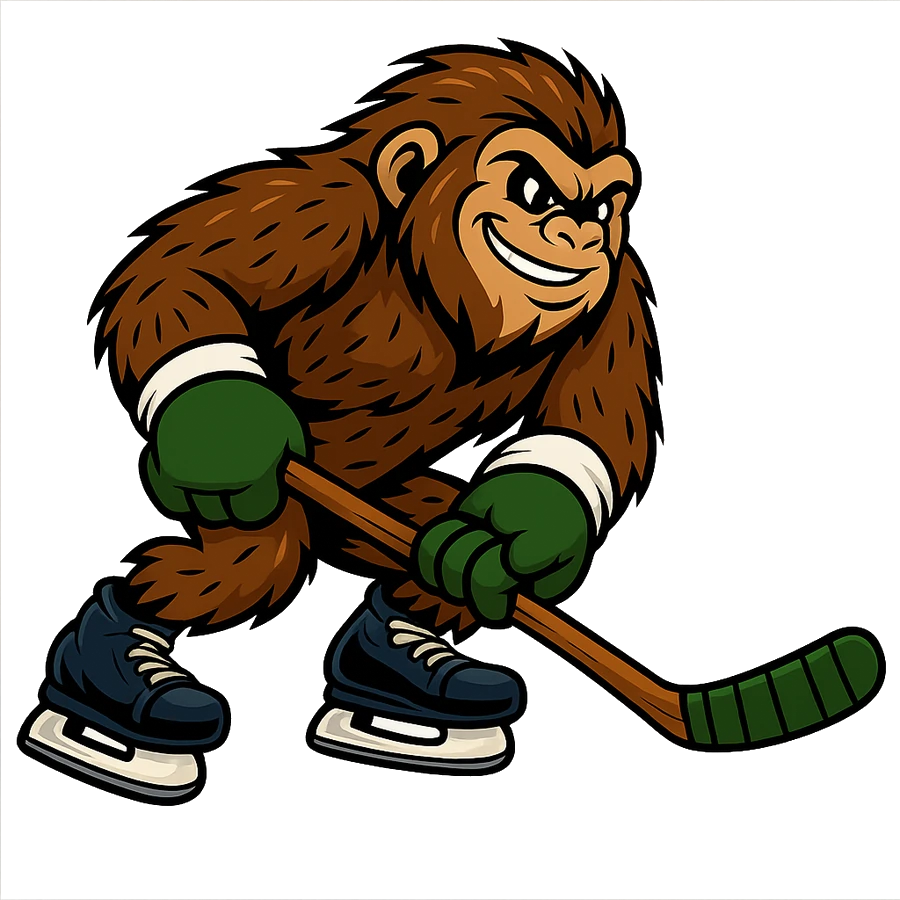
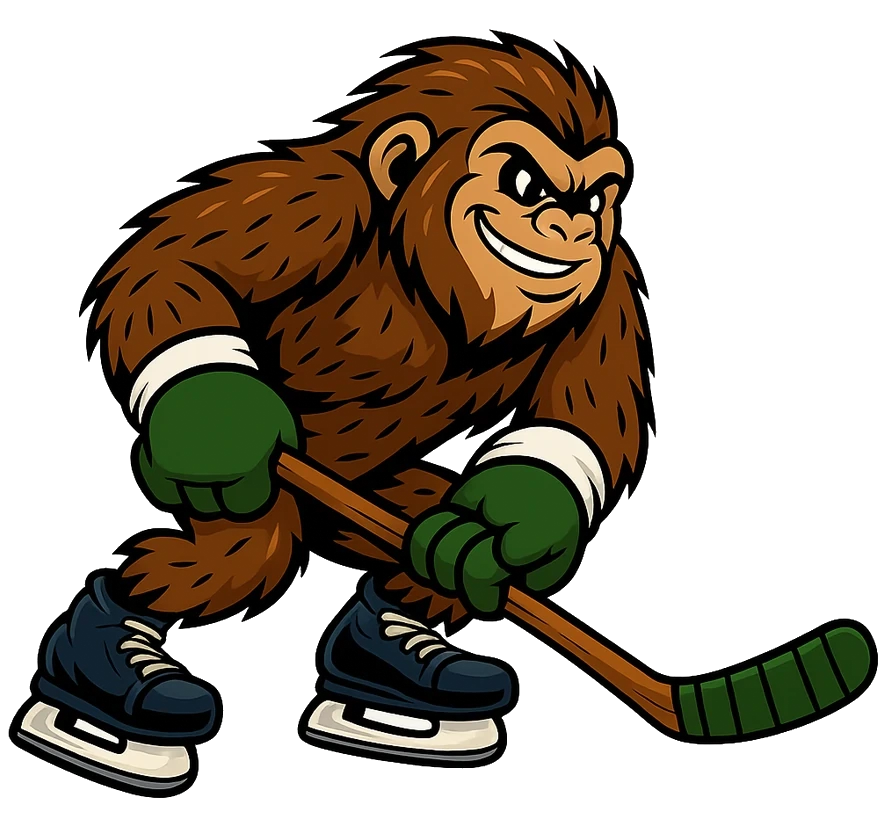
fix(about): strip the baked frame off the mascot, add header clearance to pinned sections
- The hero mascot cutout had a faint 1-3px dark semi-transparent frame on
  three edges (visible as an outline on any background). Cropped it off,
  dropped the faint fringe, and re-padded to a clean transparent margin
  (border alpha now 0). Bumped the cache-bust query to v3.
- The pinned team and coaches sections now pin at top:92px (was 66) with the
  card height adjusted to match, so the heading clears the sticky header
  instead of touching it.

diff --git a/about.html b/about.html
@@ -122,9 +122,9 @@ h2.sec{font-family:'Archivo Black',sans-serif;font-weight:400;font-size:clamp(26
 .pin-step .step-media .scphone{margin:0 auto}
 @media(min-width:900px){
   .pin{position:relative;height:calc(var(--steps,3) * 96vh)}
-  .pin-sticky{position:sticky;top:66px}
+  .pin-sticky{position:sticky;top:92px}
   .pin-head{margin-bottom:16px}
-  .pin-card{height:clamp(430px, calc(100vh - 215px), 650px);padding:clamp(24px,2.4vw,36px);display:flex;flex-direction:column;overflow:hidden}
+  .pin-card{height:clamp(420px, calc(100vh - 248px), 640px);padding:clamp(24px,2.4vw,36px);display:flex;flex-direction:column;overflow:hidden}
   .pin-body{position:relative;flex:1 1 auto;min-height:0;display:grid;grid-template-columns:1fr 1fr;gap:clamp(28px,4vw,56px);align-items:center;margin-top:0}
   .pin-phone{display:flex;align-items:center;justify-content:center;height:100%}
   .pin-phone .scphone{height:min(100%,600px);width:auto;aspect-ratio:258/560}
@@ -206,7 +206,7 @@ try{document.documentElement.setAttribute('data-theme',localStorage.getItem('thw
     <h1>Train at home. <span class='acc'>Be a problem to play against.</span></h1>
     <p class='sub'>Thwap is a young player's hockey world, with the whole team pulling the same way.</p>
   </div>
-  <img class='hero-sass' src='about-shots/mascot-hero.webp?v=2' alt='Sass, the Thwap Hockey mascot'>
+  <img class='hero-sass' src='about-shots/mascot-hero.webp?v=3' alt='Sass, the Thwap Hockey mascot'>
 </div></div></section>
 
 <!-- WHAT A KID DOES -->
